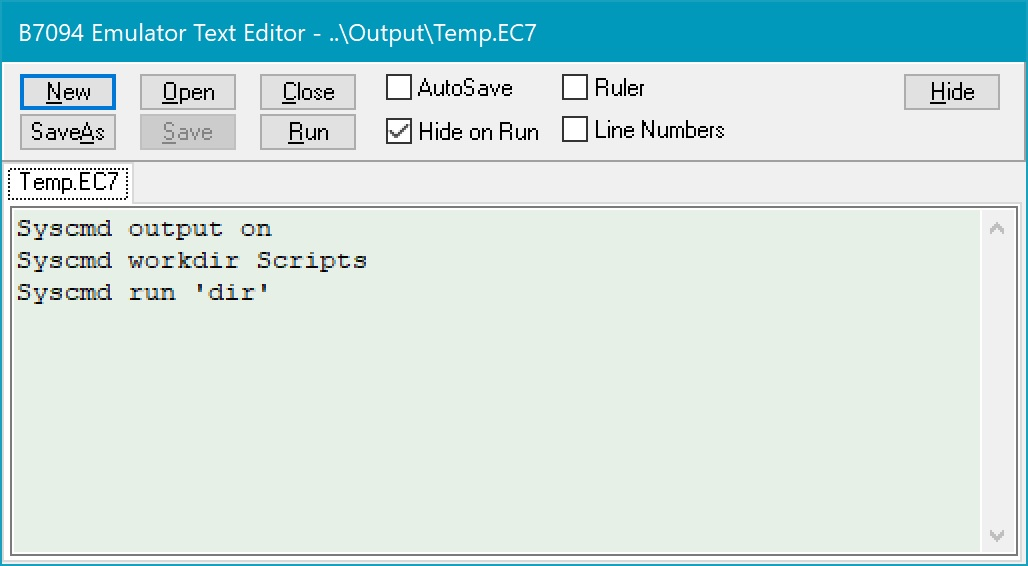
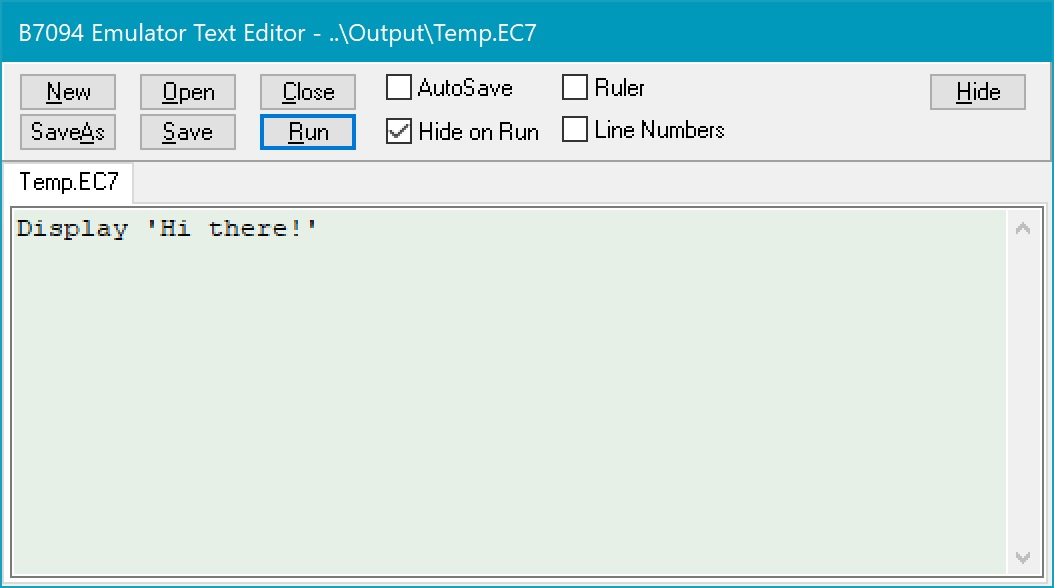
Add files via upload

Changed region(s): [[0.0, 0.03, 1.0, 0.5406], [0.0, 0.9311, 0.9961, 0.9912]]

diff --git a/README.md b/README.md
@@ -224,7 +224,7 @@ So to use the Editor to create and run an EC7 script, start B7094 and in the fir
 
 Now activate the Editor window by either clicking the 'Editor' button on the Control Panel window, or by clicking the Editor checkbox there (they do the same thing). Unless you've previously had a file open in the Editor (and its name was saved in ..\Bin\B7094.INI and the file still exists), the Editor will initially come up as an all-white box with some buttons and checkboxes near the top.
 
-To create a new file (generally you'll be creating a script for B7094 to run), click the 'New' button. The box will turn green, it'll get a scrollbar on the right, and a tab will appear with the label 'Temp.EC7' in it.
+To create a new file (generally you'll be creating a script for B7094 to run), click the 'New' button. The box will turn blue, it'll get a scrollbar on the right, and a tab will appear with the label 'New' in it.
 
 You can start typing at this point, like so:
 
@@ -234,17 +234,23 @@ Now click the 'Run' button, and voilà:
 
 ![Screenshot](Editor_screenshot2.jpg)
 
-Click either the 'Continue' or the 'Cancel' button, and the 'B7094 Scripter' window will close, the script will end, and the Editor window will re-open (in the former case, because there's no more script to Continue; in the latter case, continuation of a longer script would be Cancelled at that point).
-
-When you clicked 'New', the Editor automatically created a temporary file ..\Output\Temp.EC7 , and when you clicked 'Run' it automatically saved what you had typed and ran the Scripter from that file. You can continue to make changes in your script and 'Run' them, and those changes will automatically be saved to ..\Output\Temp.EC7 and run from there each time. If you click 'Close' in a Temp.EC7 Editor window, you'll be prompted to save your text as a "real" file, as if you'd clicked 'SaveAs'. You can also click 'SaveAs' it yourself at any time, to save your script anywhere, under any name you choose.
-
-You can click 'New' multiple times, and get multiple tabbed editing boxes within the same Editor window (only one is visible at a time, when the corresponding tab is selected). When they're created, the edit boxes will all "point" to ..\Output\Temp.EC7 (and the tabs will say "Temp.EC7"), but they will have entirely separate contents in memory, and you can switch between them and 'Run' the scripts in them freely. But here's the catch: if you want to **keep** one or more of the multiple "Temp.EC7' text boxes, you must save them to "real" files (named something other than ..\Output\Temp.EC7) before you 'Close' them or 'Power Off' the emulator (or you will be prompted to do so when you 'Close' or 'Power Off'). You can also 'Open' "real" files to have them simultaneously open in multiple edit boxes.
-
-And that's basically all there is to the Editor. The EC7 scripting language is another story. Probably the best way to get a grip on that would be to examine the existing scripts in the ..\Files\Scripts directory. Most of what you'll want to do will be in there somewhere. But there's also a manual, ..\Docs\B7094ScripterSyntax.txt that gives a full description of the language (admittedly, in somewhat opaque "formal syntax" style). Here's a sequence of commands from one of the more difficult-to-parse entries in the Syntax manual, and its result:
+Click either the 'Continue' or the 'Cancel' button, and the 'B7094 Scripter' window will close, the script will end, and the Editor window will re-open (in the former case, because there's no more script to Continue; in the latter case, continuation of a longer script would be Cancelled at that point):
 
 ![Screenshot](Editor_screenshot3.jpg)
 
+When you clicked 'Run', the Editor automatically created a temporary file ..\Output\Temp.EC7 containing the text that you typed, and ran the Scripter from that file. The box turned green, and the label on the tab changed to 'Temp.EC7'. The color change indicates there's an active file associated with the text box, and will also occur if you 'Save' (to the temp file) or 'SaveAs' (to a "real" file), and the tab label will always reflect that name of the active file. If you 'Open' (any file), the box starts out green, and the tab label contains the name of the file you opened.
+
+You can continue to make changes in your script and 'Run' them, and those changes will automatically be saved to ..\Output\Temp.EC7 and run from there each time. If you click 'Close' in a 'Temp.EC7'-labelled Editor text box, you'll be prompted to save your text as a "real" file, as if you'd clicked 'SaveAs'. You can also click 'SaveAs' it yourself at any time, to save your text (EC7 script or whatever) anywhere, under any name you choose.
+
+You can click 'New' multiple times, and get multiple tabbed editing boxes within the same Editor window (only one is visible at a time, when the corresponding tab is selected). When they're created, the edit boxes will all "point" to ..\Output\Temp.EC7 (and the tabs will say "Temp.EC7"), but they will have entirely separate contents in memory, and you can switch between them and 'Run' the scripts in them freely. But here's the catch: if you want to **keep** one or more of the multiple "Temp.EC7' text boxes, you must save them to "real" files (named something other than ..\Output\Temp.EC7) before you 'Close' them or 'Power Off' the emulator (or you will be prompted to do so when you 'Close' or 'Power Off'). You can also 'Open' "real" files to have them simultaneously open in multiple edit boxes.
+
+Any "real" files that you saved text to before you clicked 'Power Off' will be listed in the ..\Bin\B7094.INI file (as well as the tab position of the file you were viewing when you exited the emulator), and they'll be re-loaded the next time you launch the emulator. (Except that if you had unsaved Temp.EC7 text boxes, those won't be listed in the INI file, and the tab index will then default to 1.) And that's basically all there is to the Editor.
+
+The EC7 scripting language is another story. Probably the best way to get a grip on that would be to examine the existing scripts in the ..\Files\Scripts directory. Most of what you'll want to do will be in there somewhere. But there's also a manual, ..\Docs\B7094ScripterSyntax.txt that gives a full description of the language (admittedly, in somewhat opaque "formal syntax" style). Here's a sequence of commands from one of the more difficult-to-parse entries in the Syntax manual, and its result:
+
 ![Screenshot](Editor_screenshot4.jpg)
+
+![Screenshot](Editor_screenshot5.jpg)
 
 ## Acknowledgments
 
